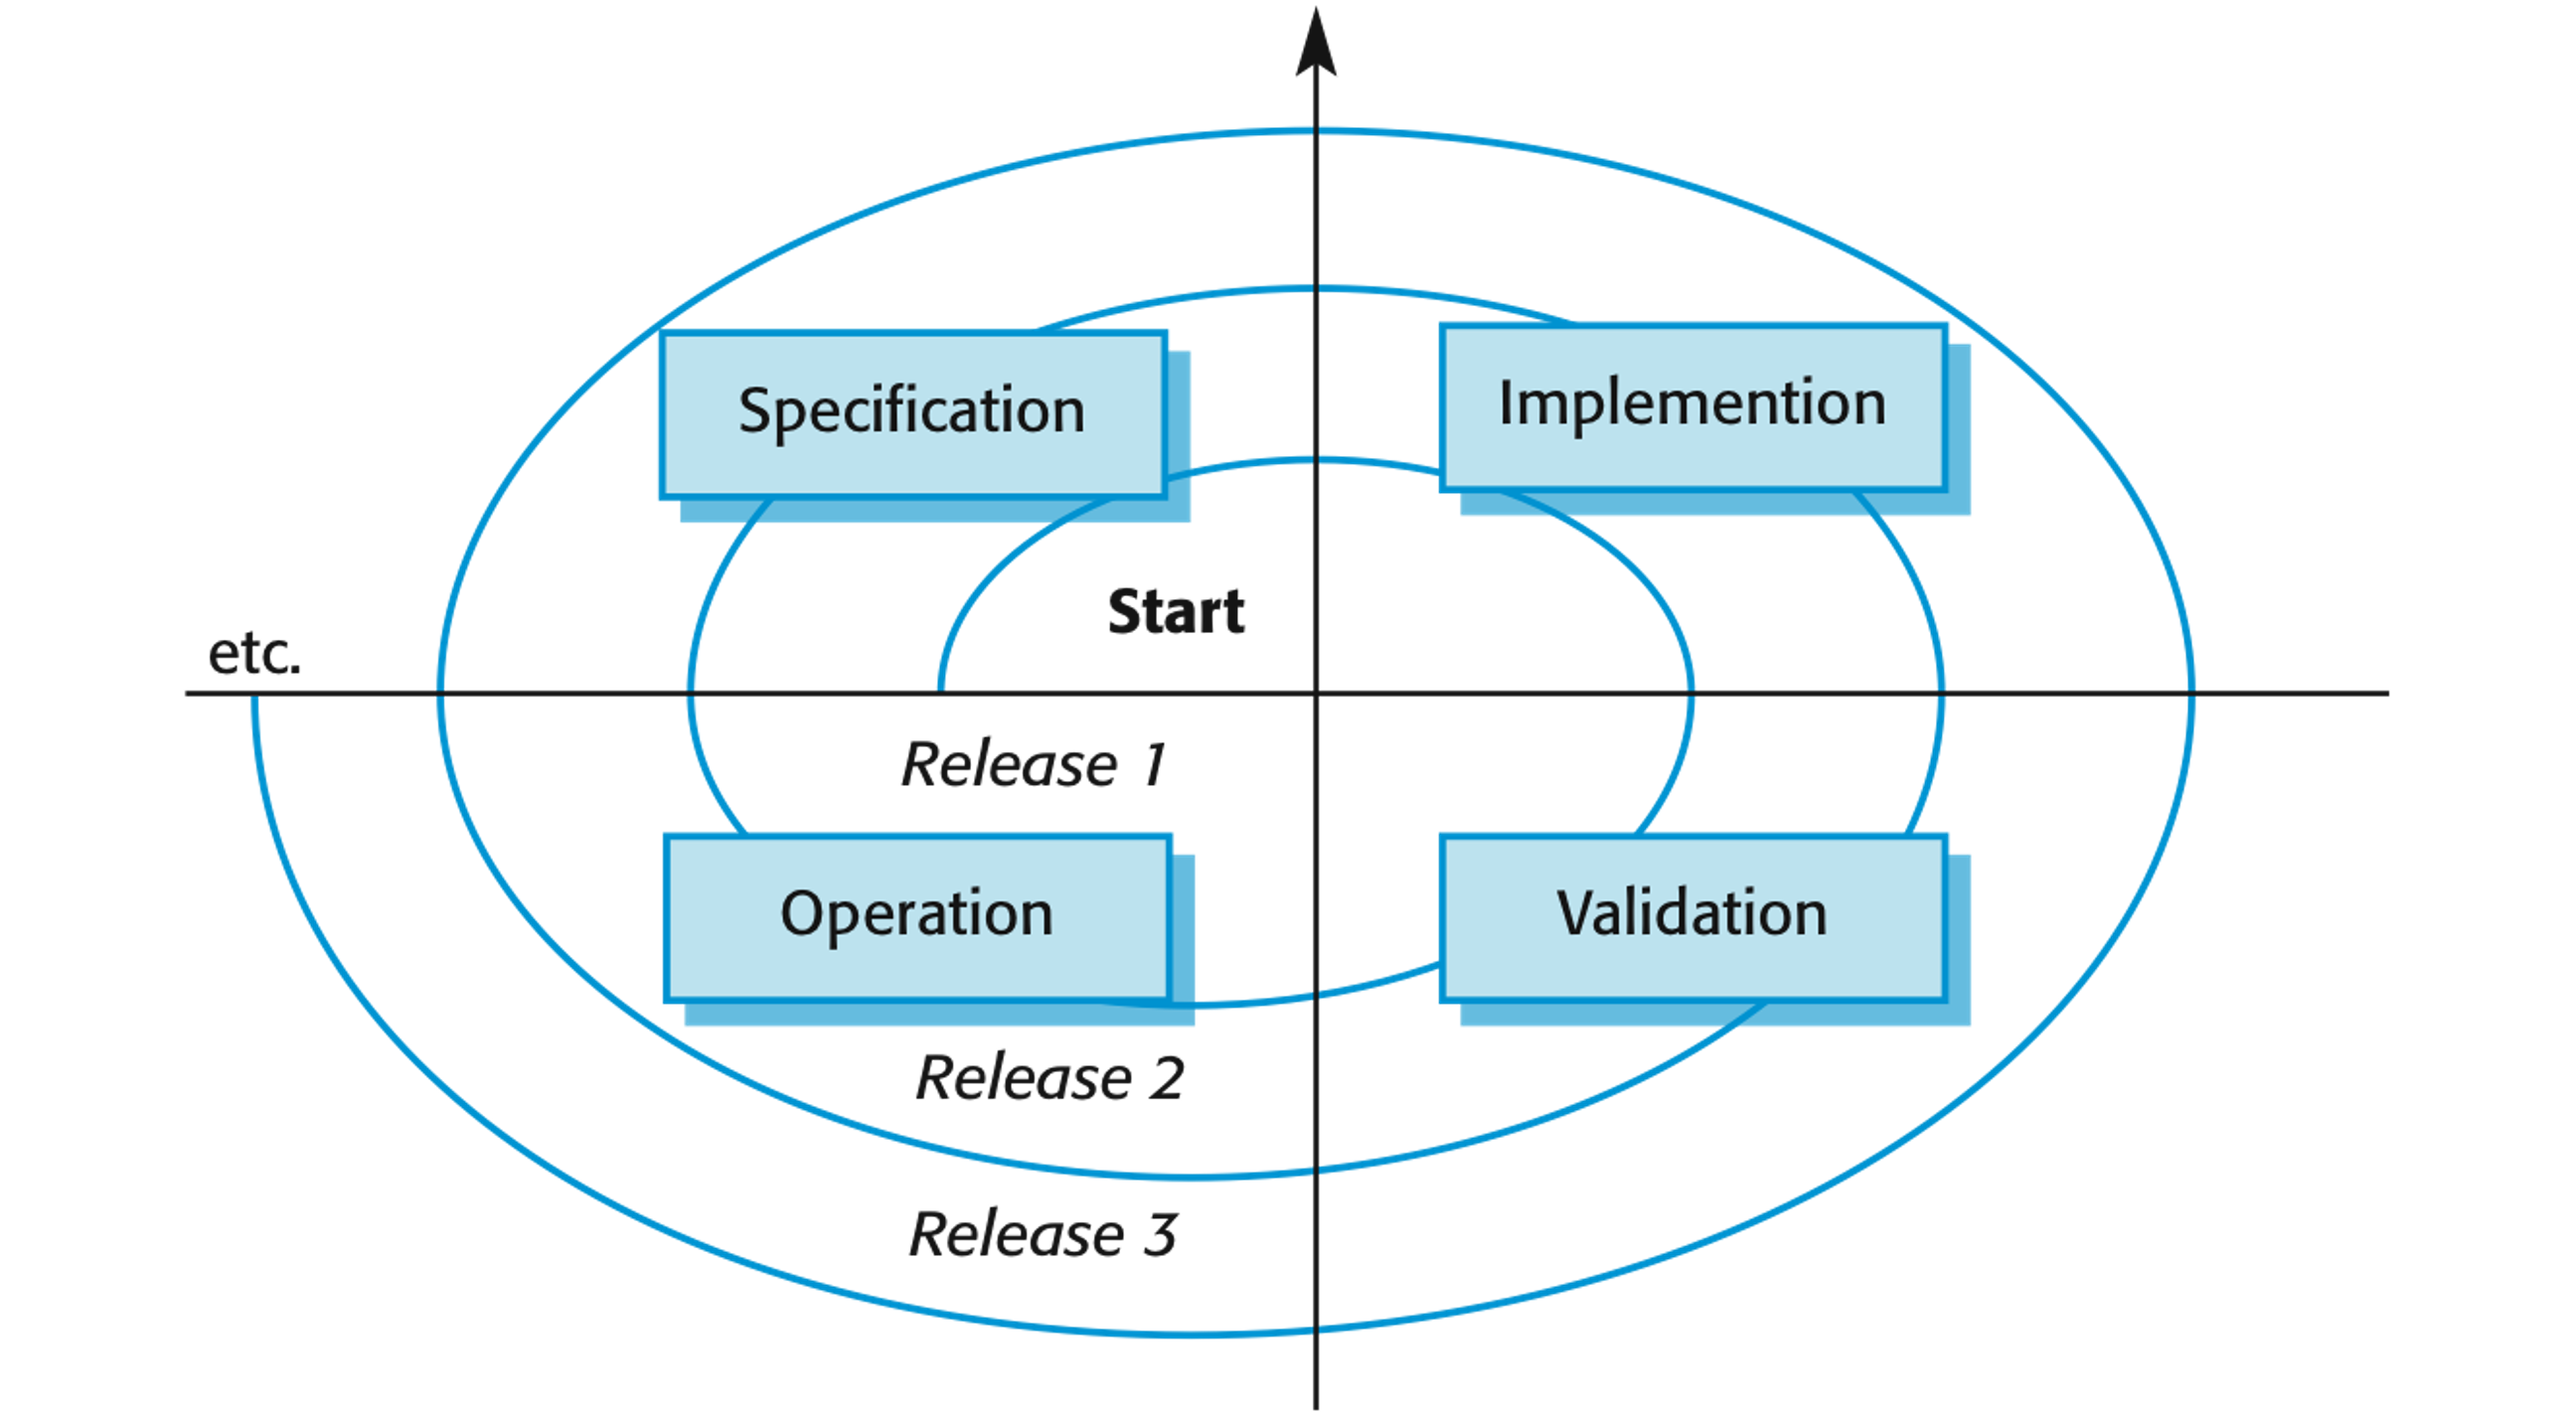
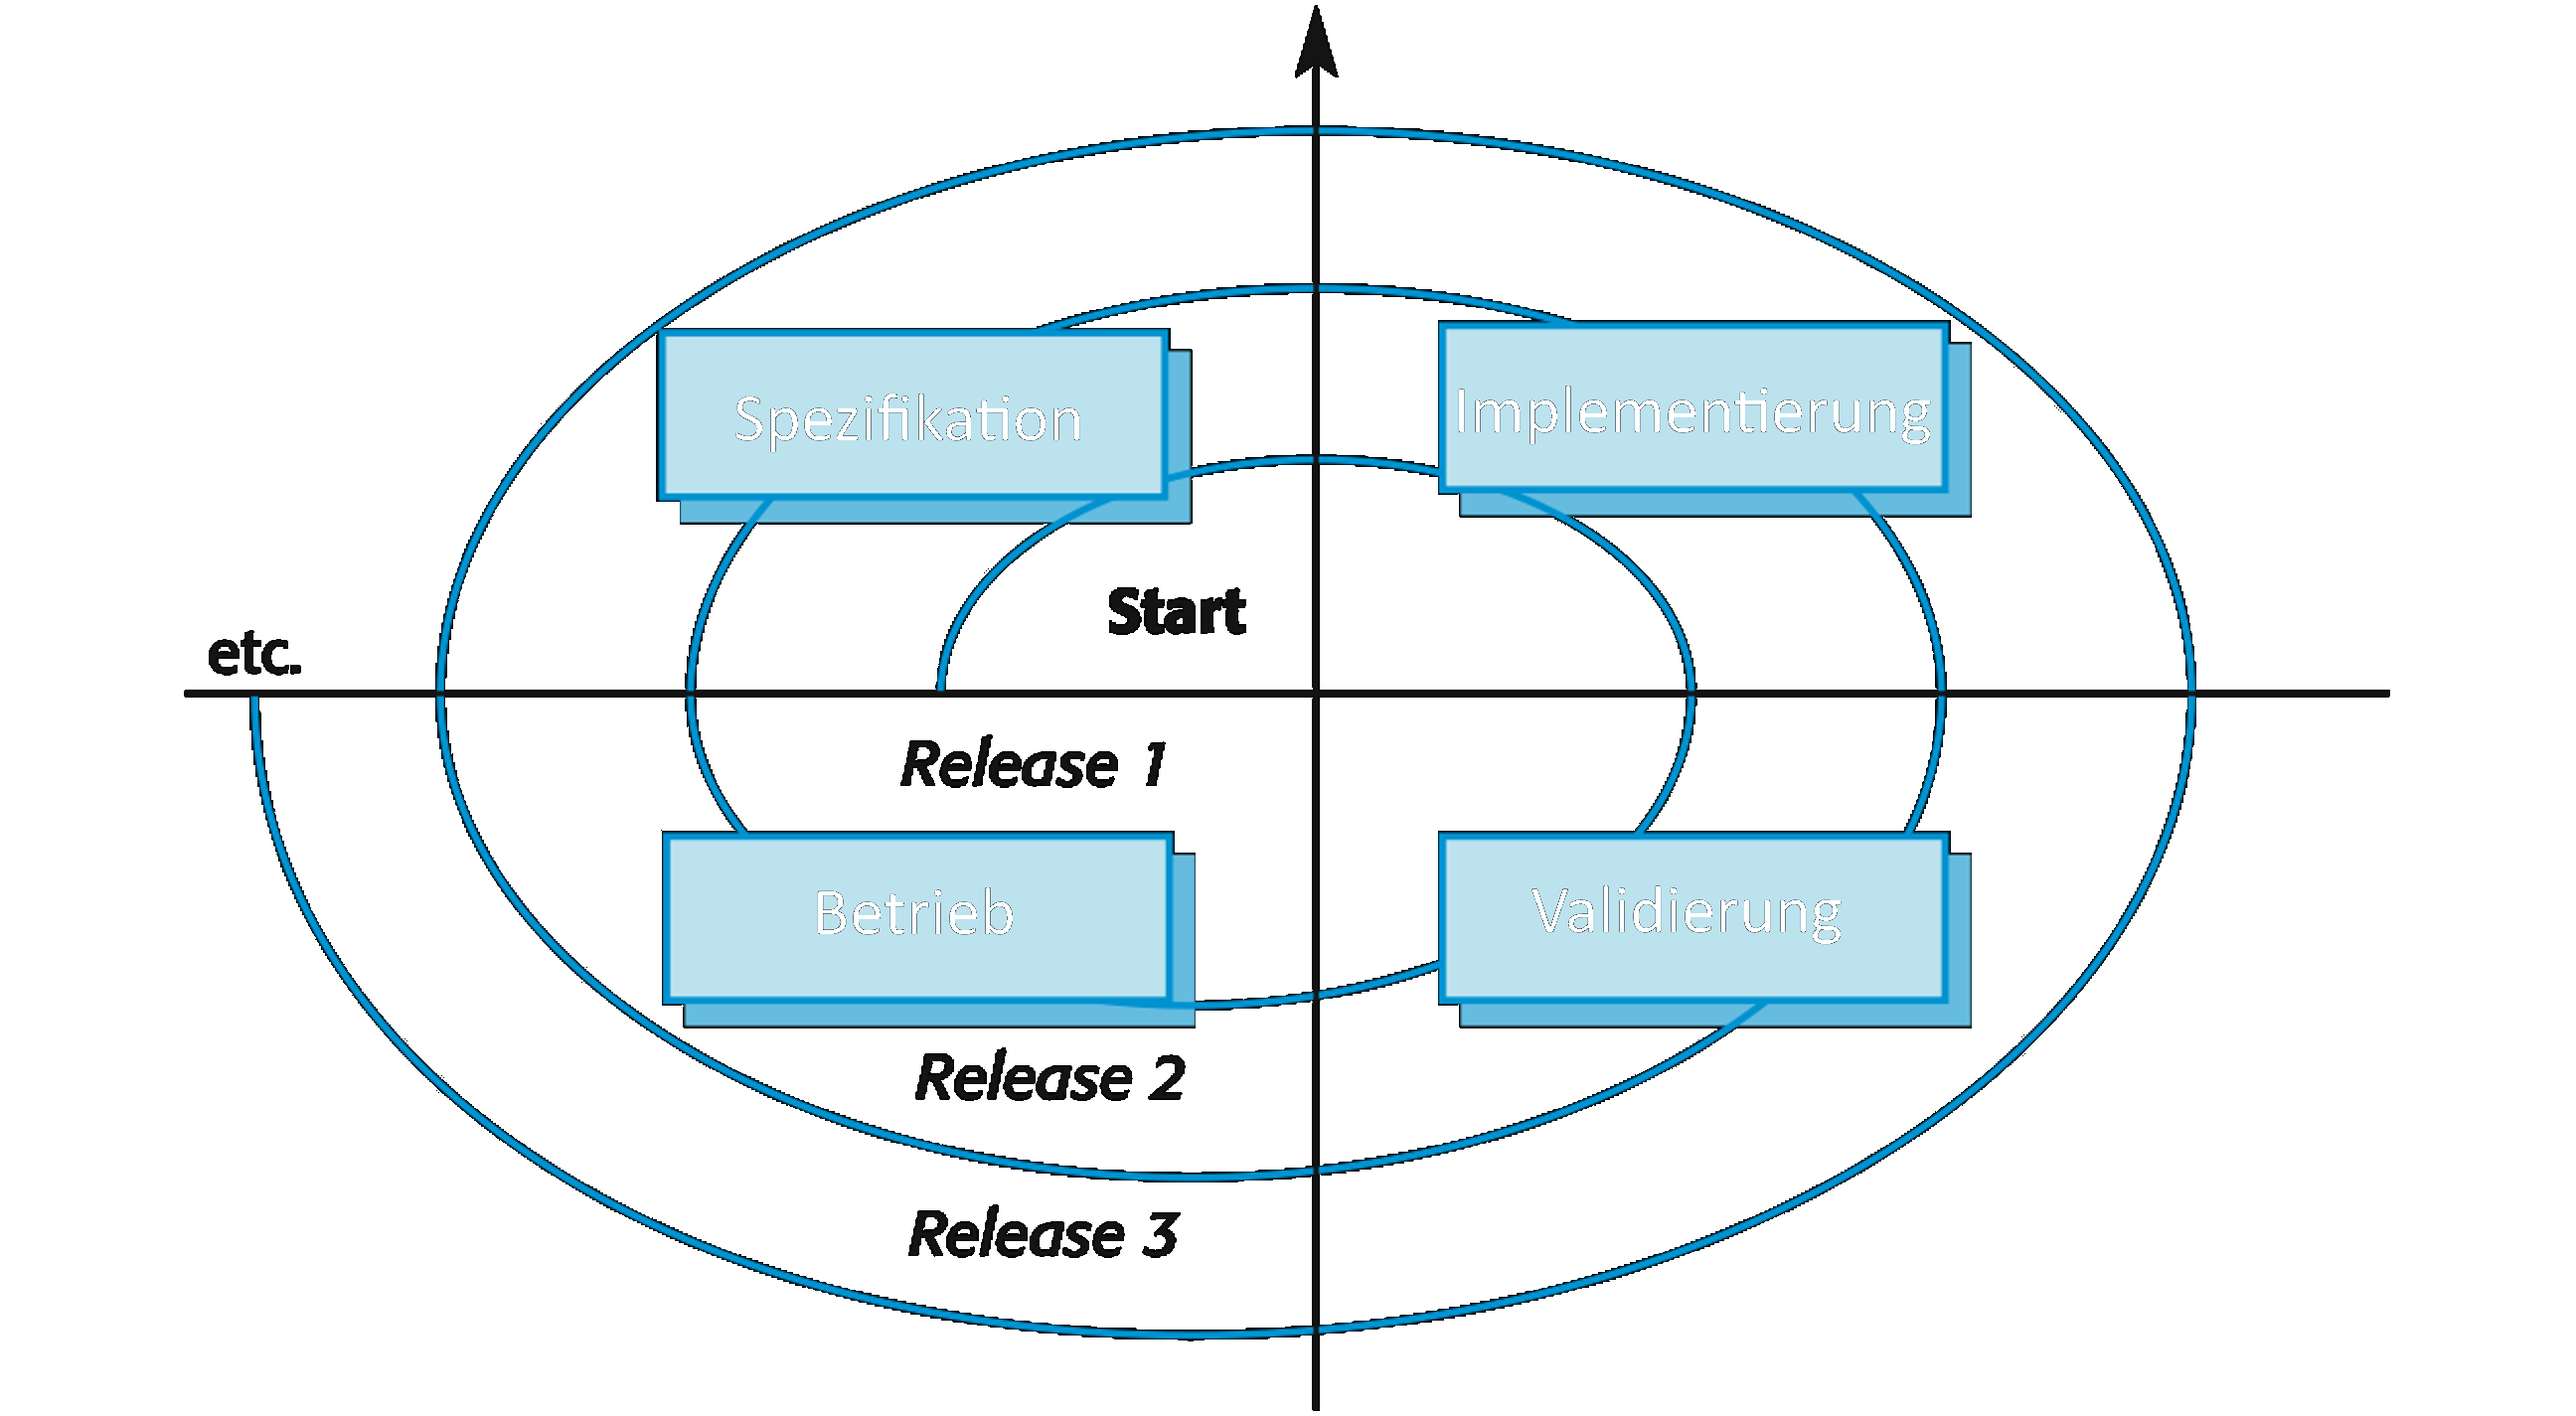
chapter 9 translate pictures

diff --git a/chapter09/index.md b/chapter09/index.md
@@ -3,7 +3,9 @@
 **Autor:** Finn Kuhn
 
 Das Kapitel befasst sich mit der Software Evolution in der Softwareentwicklung. Die beschriebenen Inhalte stammen aus
-dem Buch Software Engineering von Ian Sommerville[1] (S. 255-282). 
+dem Buch Software Engineering von Ian Sommerville[1] (S. 255-282). Alle Abbildungen basieren auf dem Buch Software
+Engineering von Ian Sommerville[1] (S. 255-282) und wurden nur ins Deutsche übersetzt, möglichst ohne den Inhalt zu
+verändern.
 
 ## Einführung
 
@@ -221,15 +223,15 @@ beinhaltet neben der eigentlichen Anwendung auch das Umfeld der Software. Das Um
 Hardware und verbundene Unterstützungssoftware. Um diese technische Perspektive einzunehmen, helfen die Fragen aus
 *Tabelle 1*.
 
-|Faktor|     Fragen| 
-|:---:|:---:|
-| Lieferstabilität| Existiert der Lieferant noch? Ist er finanziell stabil und wird weiter existieren? Wenn er nicht mehr existiert, wer wartet das System? | 
-| Ausfallrate| Fällt die Hardware häufig aus? Muss häufig neugestartet werden, weil Unterstützungssoftware abstürzt? | 
-| Alter| Wie alt sind Software und Hardware?  | 
-| Performance| Ist die Performance des Systems angemessen? Haben Performanzprobleme große Auswirkung auf die Nutzer?| 
-| Supportanforderungen| Welcher lokaler Support ist für die hard- und software nötig?  | 
-| Wartungskosten| Was sind die Kosten von Hardwarepflege und Softwarelizenzen? |
-| Interoperabilität| Gibt es Probleme bei Schnittstellen zu anderen Systemen? |
+|        Faktor        |                                                                 Fragen                                                                  | 
+|:--------------------:|:---------------------------------------------------------------------------------------------------------------------------------------:|
+|   Lieferstabilität   | Existiert der Lieferant noch? Ist er finanziell stabil und wird weiter existieren? Wenn er nicht mehr existiert, wer wartet das System? | 
+|     Ausfallrate      |                  Fällt die Hardware häufig aus? Muss häufig neugestartet werden, weil Unterstützungssoftware abstürzt?                  | 
+|        Alter         |                                                   Wie alt sind Software und Hardware?                                                   | 
+|     Performance      |                  Ist die Performance des Systems angemessen? Haben Performanzprobleme große Auswirkung auf die Nutzer?                  | 
+| Supportanforderungen |                                      Welcher lokaler Support ist für die hard- und software nötig?                                      | 
+|    Wartungskosten    |                                      Was sind die Kosten von Hardwarepflege und Softwarelizenzen?                                       |
+|  Interoperabilität   |                                        Gibt es Probleme bei Schnittstellen zu anderen Systemen?                                         |
 
 *Tabelle 1: Faktoren zur Analyse des Umfelds*
 
@@ -238,16 +240,16 @@ werden. Neben der Umgebung ist natürlich die technische Qualität der Anwendung
 können, sollten Daten über die Anzahl der Systemänderungsanfragen, Anzahl der Nutzerschnittstellen und die Größe der
 Daten gesammelt werden. Mit diesen Daten lassen sich dann die Fragen aus *Tabelle 2* beantworten.
 
-| Faktor | Fragen | 
-|:---:|:---:|
-| Verständlichkeit | Wie verständlich ist der aktuelle Code? Wie komplex ist die Struktur? | 
-| Dokumentation | Was für eine Systemdokumentation ist vorhanden? ist diese vollständig, konsistent und aktuell? | 
-| Daten | Gibt es ein explizites Datenmodell für das System? Sind Daten aktuell und konsistent? | 
-| Performance | Ist die performance angemessen? Haben Performanzprobleme einen Einfluss auf den nutzer?| 
-| Programmiersprache | Wird die Programmiersprache noch genutzt? Wenn nicht gibt es trotzdem aktuelle Compiler? |
+|          Faktor          |                                                   Fragen                                                   | 
+|:------------------------:|:----------------------------------------------------------------------------------------------------------:|
+|     Verständlichkeit     |                   Wie verständlich ist der aktuelle Code? Wie komplex ist die Struktur?                    | 
+|      Dokumentation       |       Was für eine Systemdokumentation ist vorhanden? ist diese vollständig, konsistent und aktuell?       | 
+|          Daten           |           Gibt es ein explizites Datenmodell für das System? Sind Daten aktuell und konsistent?            | 
+|       Performance        |          Ist die performance angemessen? Haben Performanzprobleme einen Einfluss auf den nutzer?           | 
+|    Programmiersprache    |          Wird die Programmiersprache noch genutzt? Wenn nicht gibt es trotzdem aktuelle Compiler?          |
 | Konfigurationsmanagement | Sind die Versionen aller Teile durch ein Tool kontrolliert? Gibt es eine Beschreibung über alle Versionen? |
-| Testdaten | Existieren Testdaten für das System? Gibt es protokolle über Regressionstest bei neuen Funktionen? | 
-| Personalfähigkeiten | Ist Personal verfügbar mit Wissen über das System und Fähigkeiten es zu warten? |
+|        Testdaten         |     Existieren Testdaten für das System? Gibt es protokolle über Regressionstest bei neuen Funktionen?     | 
+|   Personalfähigkeiten    |              Ist Personal verfügbar mit Wissen über das System und Fähigkeiten es zu warten?               |
 
 *Tabelle 2: Faktoren zur Analyse der Anwendung*
 
@@ -377,9 +379,6 @@ gezogen werden.
 Beim Refactoring können IDEs mit diversen Tools eine große Unterstützung sein. Es kann allerdings passieren, dass die
 Struktur eines Programms so schlecht ist, das Coderefactoring nicht mehr möglich ist. In dem Fall kann Design
 Refactoring in Betracht gezogen werden, um den Code mithilfe von Design Patterns anzupassen.
-
-## Zusammenfassung
-* 
 
 [Abbildung 1]: https://mwithoeft.github.io/SGSE22/chapter09/assets/Bild1.png
 
